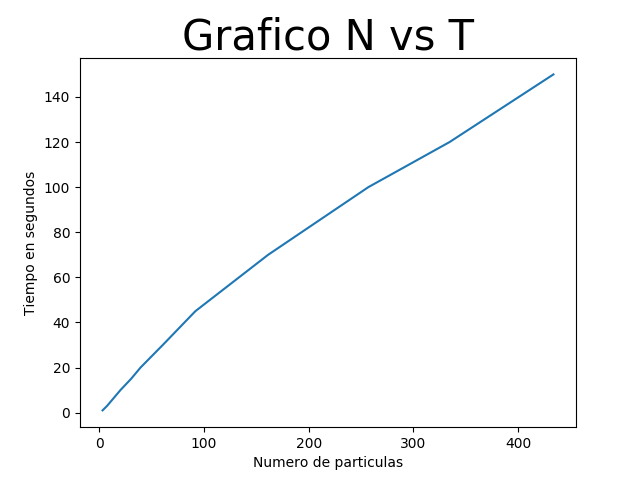
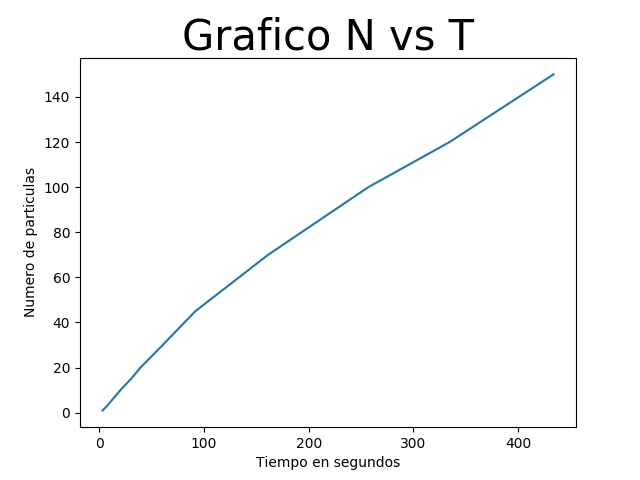
final

Changed region(s): [[0.375, 0.9375, 0.625, 1.0], [0.0312, 0.3438, 0.0625, 0.6562]]

diff --git a/Mejorado/Grafico_tiempo.py b/Mejorado/Grafico_tiempo.py
@@ -15,7 +15,7 @@ t = [3.01,7.34,20.09,30.29,39.3,60.53,91.71,161.23,257,334.62,433.89]
 
 plot(t,n)
 title("Grafico N vs T",size=30)
-ylabel("Tiempo en segundos")
-xlabel("Numero de particulas")
+xlabel("Tiempo en segundos")
+ylabel("Numero de particulas")
 
 savefig("grafico.png")
